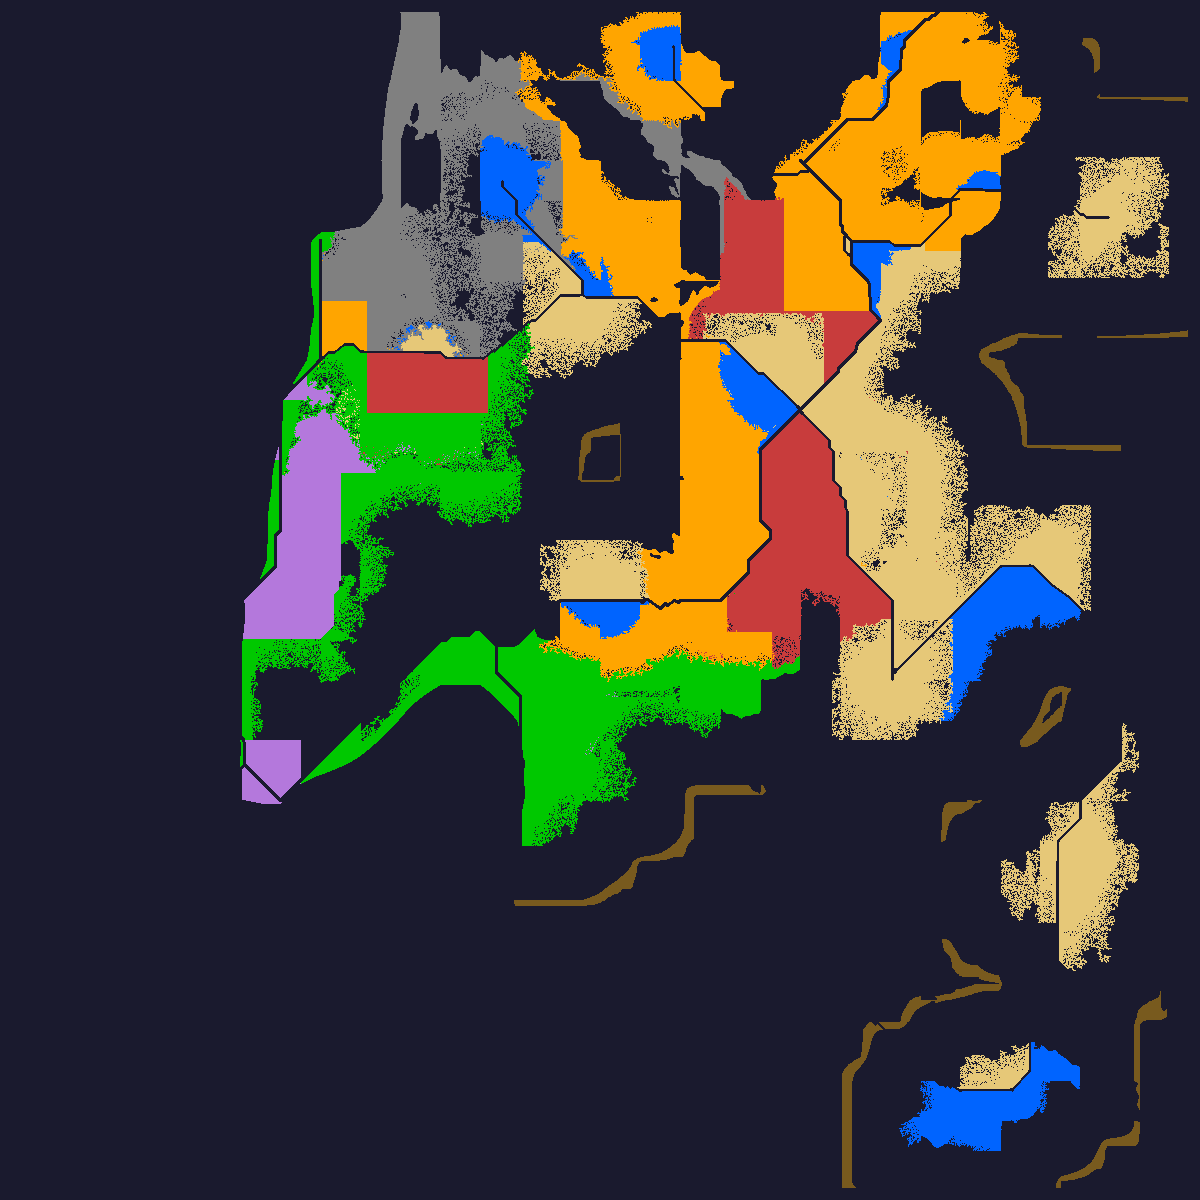
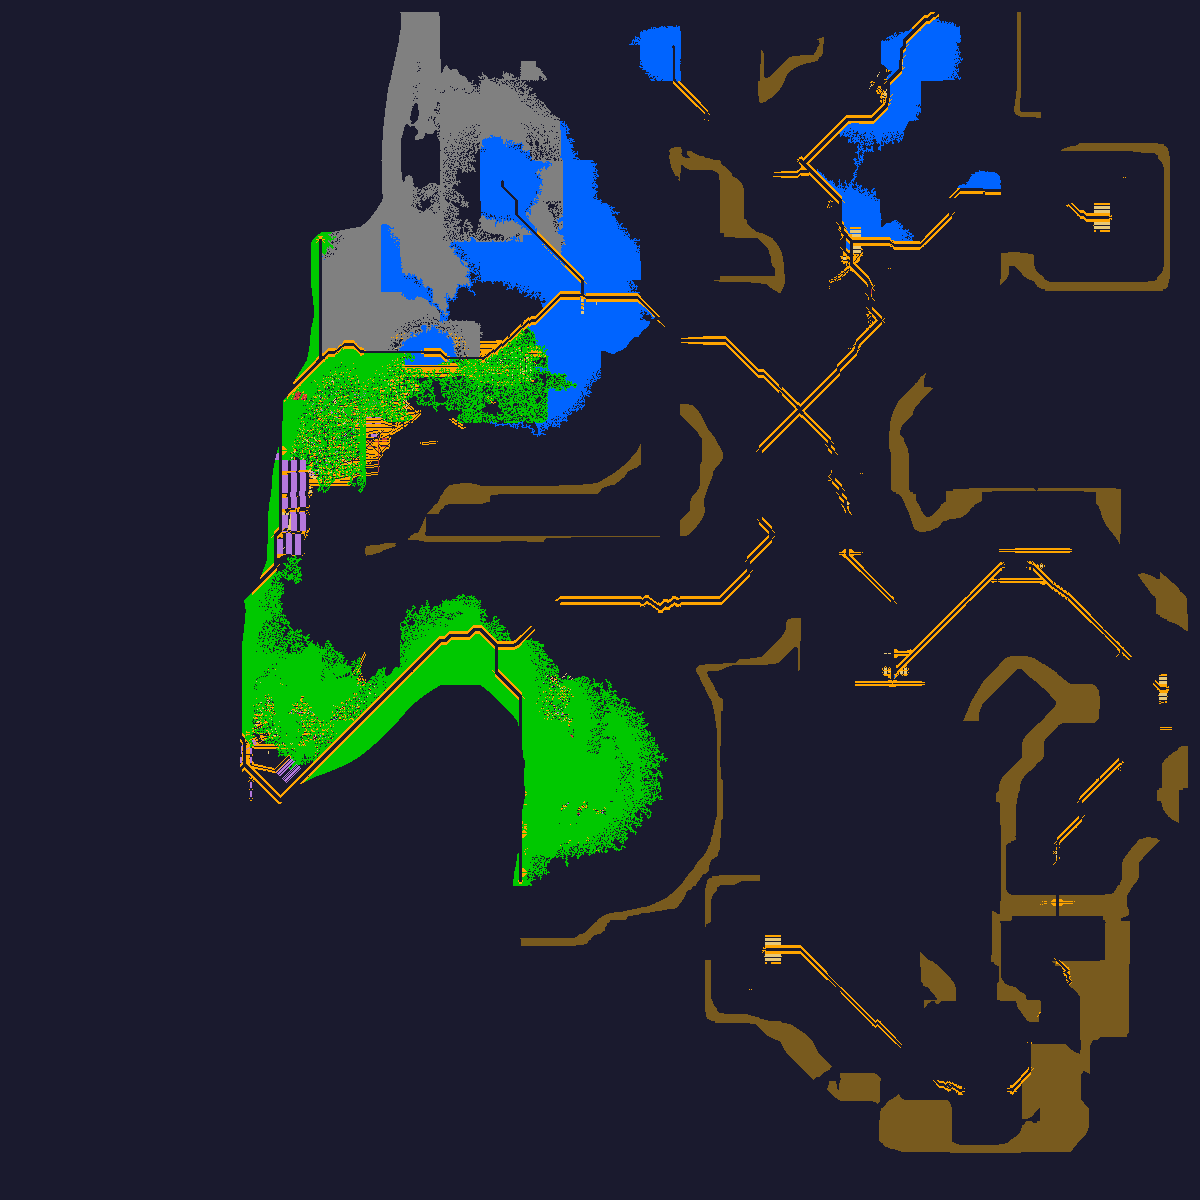
Wire typed allocators into growth tick pipeline
Commercial uses frontage allocator (thin strips along roads).
Residential uses ribbon allocator (terraced strips with gaps).
Industrial/civic/openSpace keep BFS blob. Road growth step marks
ribbon gaps as streets and extends cross streets.

diff --git a/src/city/pipeline/growthTick.js b/src/city/pipeline/growthTick.js
@@ -13,6 +13,9 @@ import { RESERVATION, AGENT_TYPE_TO_RESERVATION } from './growthAgents.js';
 import { computeInfluenceLayers } from './influenceLayers.js';
 import { composeAllValueLayers } from './valueLayers.js';
 import { allocateFromValueBitmap } from './allocate.js';
+import { allocateFrontage } from './allocateFrontage.js';
+import { allocateRibbon } from './allocateRibbon.js';
+import { growRoads } from './growRoads.js';
 
 /**
  * Initialize growth state for a map.
@@ -108,9 +111,14 @@ export function runGrowthTick(map, archetype, state) {
     }
   }
 
-  // Phase 3 ALLOCATE: for each agent in priority order, claim cells from its value bitmap
+  // Phase 3 ALLOCATE: for each agent in priority order, dispatch to correct allocator
   const agentPriority = growth.agentPriority || Object.keys(growth.agents || {});
   let anyAllocated = false;
+  const allRibbonGaps = [];
+  const allRibbonEndpoints = [];
+
+  const roadGrid = map.hasLayer('roadGrid') ? map.getLayer('roadGrid') : null;
+  const slopeGrid = map.hasLayer('slope') ? map.getLayer('slope') : null;
 
   for (const agentType of agentPriority) {
     if (agentType === 'agriculture') continue; // handled after other agents
@@ -133,28 +141,63 @@ export function runGrowthTick(map, archetype, state) {
     const budget = Math.min(tickBudget, remainingTotal);
     if (budget <= 0) continue;
 
-    // Get this agent's value layer (fall back to empty if not in valueComposition)
+    // Get this agent's value layer
     const valueLayer = valueLayers[agentType] || new Float32Array(w * h);
 
-    const newCells = allocateFromValueBitmap({
-      valueLayer,
-      resGrid,
-      zoneGrid,
-      devProximity,
-      resType,
-      budget,
-      minFootprint: agentConfig.minFootprint || 1,
-      seedCount: agentConfig.seedCount || 3,
-      minSpacing: agentConfig.minSpacing || 20,
-      noise: agentConfig.noise != null ? agentConfig.noise : 0.15,
-      w,
-      h,
-    });
+    let newCells;
+    const allocatorType = agentConfig.allocator || 'blob';
 
-    if (newCells.length > 0) {
+    if (allocatorType === 'frontage' && roadGrid) {
+      newCells = allocateFrontage({
+        valueLayer, resGrid, zoneGrid, roadGrid, devProximity,
+        resType, budget,
+        maxDepth: agentConfig.maxDepth || 3,
+        valueThreshold: agentConfig.valueThreshold || 0.3,
+        w, h,
+      });
+    } else if (allocatorType === 'ribbon' && roadGrid) {
+      const result = allocateRibbon({
+        valueLayer, resGrid, zoneGrid, roadGrid, slope: slopeGrid, devProximity,
+        resType, budget,
+        plotDepth: agentConfig.plotDepth || 3,
+        gapWidth: agentConfig.gapWidth || 1,
+        maxRibbonLength: agentConfig.maxRibbonLength || 30,
+        seedCount: agentConfig.seedCount || 5,
+        noise: agentConfig.noise || 0.1,
+        w, h, cellSize: map.cellSize,
+      });
+      newCells = result.claimed;
+      allRibbonGaps.push(...result.ribbonGaps);
+      allRibbonEndpoints.push(...result.ribbonEndpoints);
+    } else {
+      // Default: BFS blob
+      newCells = allocateFromValueBitmap({
+        valueLayer, resGrid, zoneGrid, devProximity, resType, budget,
+        minFootprint: agentConfig.minFootprint || 1,
+        seedCount: agentConfig.seedCount || 3,
+        minSpacing: agentConfig.minSpacing || 20,
+        noise: agentConfig.noise != null ? agentConfig.noise : 0.15,
+        w, h,
+      });
+    }
+
+    if (newCells && newCells.length > 0) {
       anyAllocated = true;
       state.claimedCounts.set(agentType, claimed + newCells.length);
     }
+  }
+
+  // Phase 4 ROADS: grow streets from ribbon results
+  if (roadGrid && (allRibbonGaps.length > 0 || allRibbonEndpoints.length > 0)) {
+    const roadConfig = growth.roadGrowth || {};
+    growRoads({
+      roadGrid,
+      ribbonGaps: allRibbonGaps,
+      ribbonEndpoints: allRibbonEndpoints,
+      w, h,
+      maxCrossStreetLength: roadConfig.maxCrossStreetLength || 40,
+      pathClosingDistance: roadConfig.pathClosingDistance || 30,
+    });
   }
 
   // Agriculture fill: unclaimed cells just beyond the development frontier

diff --git a/src/city/archetypes.js b/src/city/archetypes.js
@@ -53,21 +53,28 @@ export const ARCHETYPES = {
         residentialProximity: { types: [6, 7, 8], radius: 40 },
       },
       agents: {
-        commercial:         { share: 0.12, budgetPerTick: 0.03, minFootprint: 10,
-                              seedCount: 8, minSpacing: 30, noise: 0.1 },
-        industrial:         { share: 0.08, budgetPerTick: 0.02, minFootprint: 50,
-                              seedCount: 2, minSpacing: 80, noise: 0.1 },
-        civic:              { share: 0.05, budgetPerTick: 0.01, minFootprint: 20,
-                              seedCount: 4, minSpacing: 40, noise: 0.05 },
-        openSpace:          { share: 0.08, budgetPerTick: 0.02, minFootprint: 30,
-                              seedCount: 3, minSpacing: 50, noise: 0.1 },
+        commercial:         { share: 0.12, budgetPerTick: 0.03,
+                              allocator: 'frontage', maxDepth: 4, valueThreshold: 0.3 },
+        industrial:         { share: 0.08, budgetPerTick: 0.02, allocator: 'blob',
+                              minFootprint: 50, seedCount: 2, minSpacing: 80, noise: 0.1 },
+        civic:              { share: 0.05, budgetPerTick: 0.01, allocator: 'blob',
+                              minFootprint: 20, seedCount: 4, minSpacing: 40, noise: 0.05 },
+        openSpace:          { share: 0.08, budgetPerTick: 0.02, allocator: 'blob',
+                              minFootprint: 30, seedCount: 3, minSpacing: 50, noise: 0.1 },
         agriculture:        { share: 0.15 },
-        residentialFine:    { share: 0.30, budgetPerTick: 0.06, minFootprint: 5,
-                              seedCount: 12, minSpacing: 10, noise: 0.25 },
-        residentialEstate:  { share: 0.10, budgetPerTick: 0.03, minFootprint: 40,
-                              seedCount: 3, minSpacing: 60, noise: 0.1 },
-        residentialQuality: { share: 0.12, budgetPerTick: 0.03, minFootprint: 15,
-                              seedCount: 5, minSpacing: 30, noise: 0.15 },
+        residentialFine:    { share: 0.30, budgetPerTick: 0.06, allocator: 'ribbon',
+                              plotDepth: 3, gapWidth: 1, maxRibbonLength: 30,
+                              seedCount: 12, noise: 0.2 },
+        residentialEstate:  { share: 0.10, budgetPerTick: 0.03, allocator: 'ribbon',
+                              plotDepth: 5, gapWidth: 2, maxRibbonLength: 40,
+                              seedCount: 3, noise: 0.1 },
+        residentialQuality: { share: 0.12, budgetPerTick: 0.03, allocator: 'ribbon',
+                              plotDepth: 6, gapWidth: 3, maxRibbonLength: 20,
+                              seedCount: 5, noise: 0.15 },
+      },
+      roadGrowth: {
+        maxCrossStreetLength: 40,
+        pathClosingDistance: 30,
       },
     },
   },
